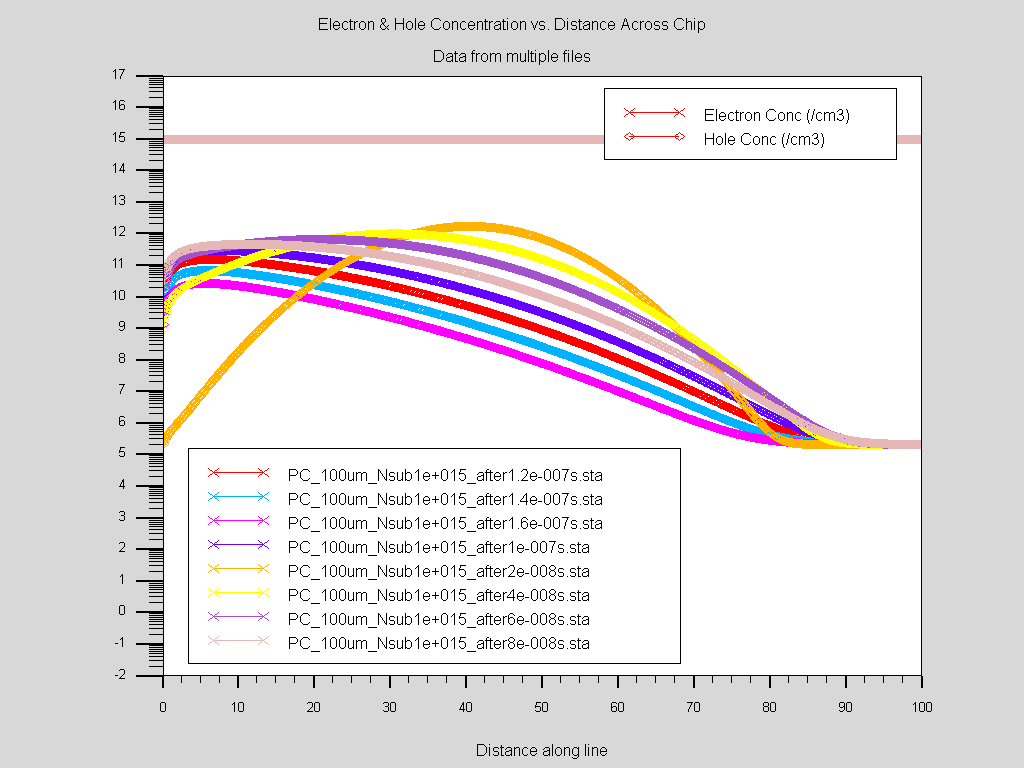
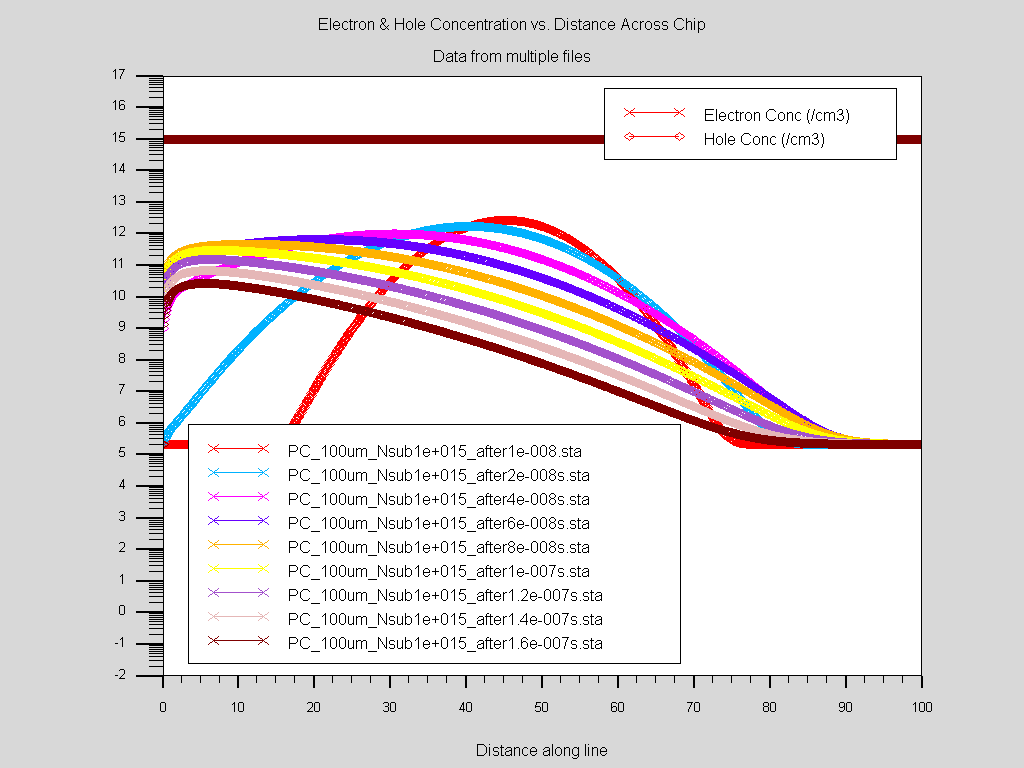
Add new baseline.

diff --git a/notes/Experiments.tex b/notes/Experiments.tex
@@ -232,7 +232,30 @@ To further study this, the density of electron-hole pairs present in the single-
   \section{Change in current over time (Baseline 2)}
 
   % Break this line to prevent an overful hbox.
-  A new baseline was created, where \lstinline{b.density = 1e-015} rather than \\\lstinline{b.density = 1e-015}, and \lstinline{radius = 1} rather than \lstinline{radius = 5}. Additionally, the time intervals at which data was changed to $20ns$.
+  A new baseline was created, where \lstinline{b.density = 1e-015} rather than \\\lstinline{b.density = 1e-015}, and \lstinline{radius = 1} rather than \lstinline{radius = 5}. Additionally, the time intervals at which data is collected was tuned. Given a lifetime of $\SI{1e-7}{s}$, the electron hole concentration is flattened out completely by 500ns. Figure \ref{fig:n4n10} shows how there is an electron hole cloud that starts out thin, before widening out. Data for this figure was collected at $\SI{1}{ns}$, $\SI{2}{ns}$, $\SI{5}{ns}$, $\SI{10}{ns}$, and then at $\SI{50}{ns}$ intervals.
+
+  \begin{figure}[H]
+    \centering
+    \includegraphics[width=0.7\textwidth]{n4n10}
+    \caption{Distance vs $e^-$/$h^+$ concentraion with 14 samples.}
+    \label{fig:n4n10}
+  \end{figure}
+
+  This plot does a pretty good job at conveying the transformation that the electron hole cloud undergoes, but there are a couple of considerations to have, moving forward.
+
+  \begin{itemize}
+    \item In fact, the hole concentration flattens out as early as $\SI{450}{ns}$. For this electron lifetime, we could remove any results after that. However, as we vary the lifetime values, it's possible we may see activity in time intervals beyond this, so it would be wise to keep up to at least $\SI{500}{ns}$ in the baseline.
+    \item After the initial $\SI{<50}{ns}$ solutions, the plot loses a lot of detail. updates should be made more frequent.
+  \end{itemize}
+
+  Thus, we need to modify the deck to satisfy the conditions of going to $\SI{500}{ns}$, at a suitable frequency. After tuning the parameters, I arrived at this plot:
+
+\begin{figure}[H]
+  \centering
+  \includegraphics[width=0.7\textwidth]{n4n20}
+  \caption{Distance vs $e^-$/$h^+$ concentraion with 24 samples.}
+  \label{fig:n4n20}
+\end{figure}
 
 \begin{figure}[H]
   \centering
